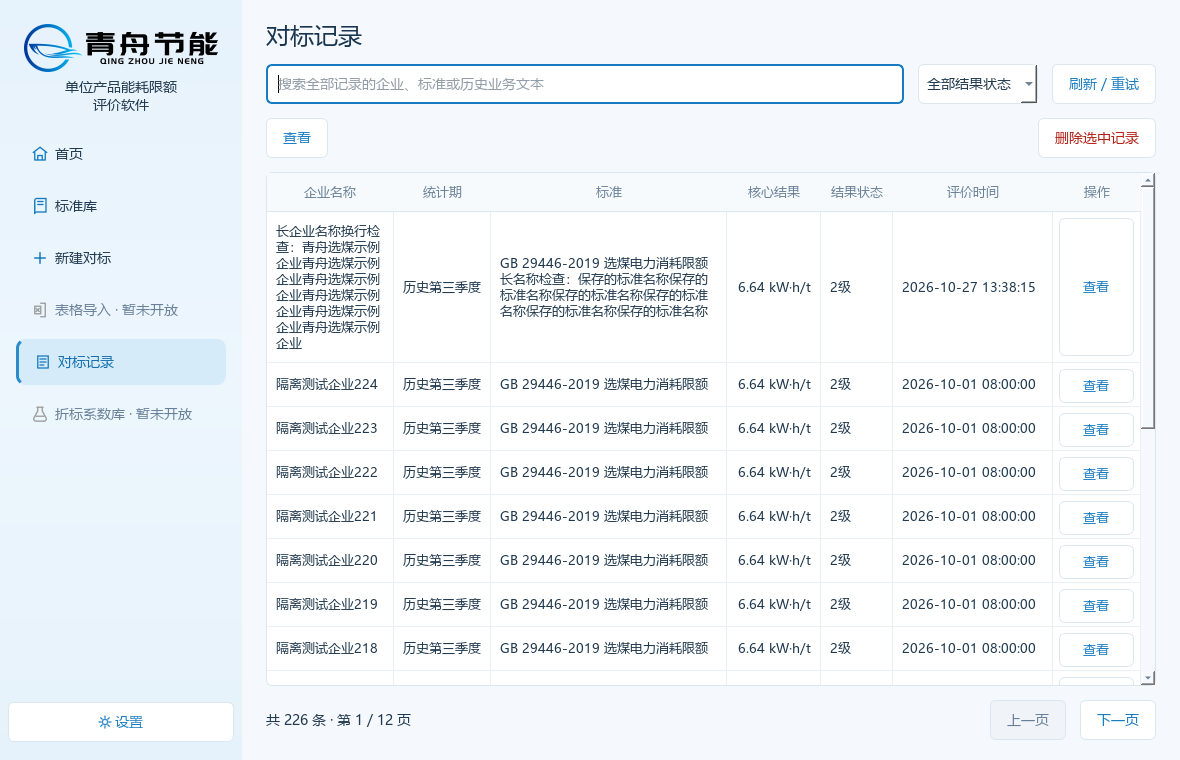
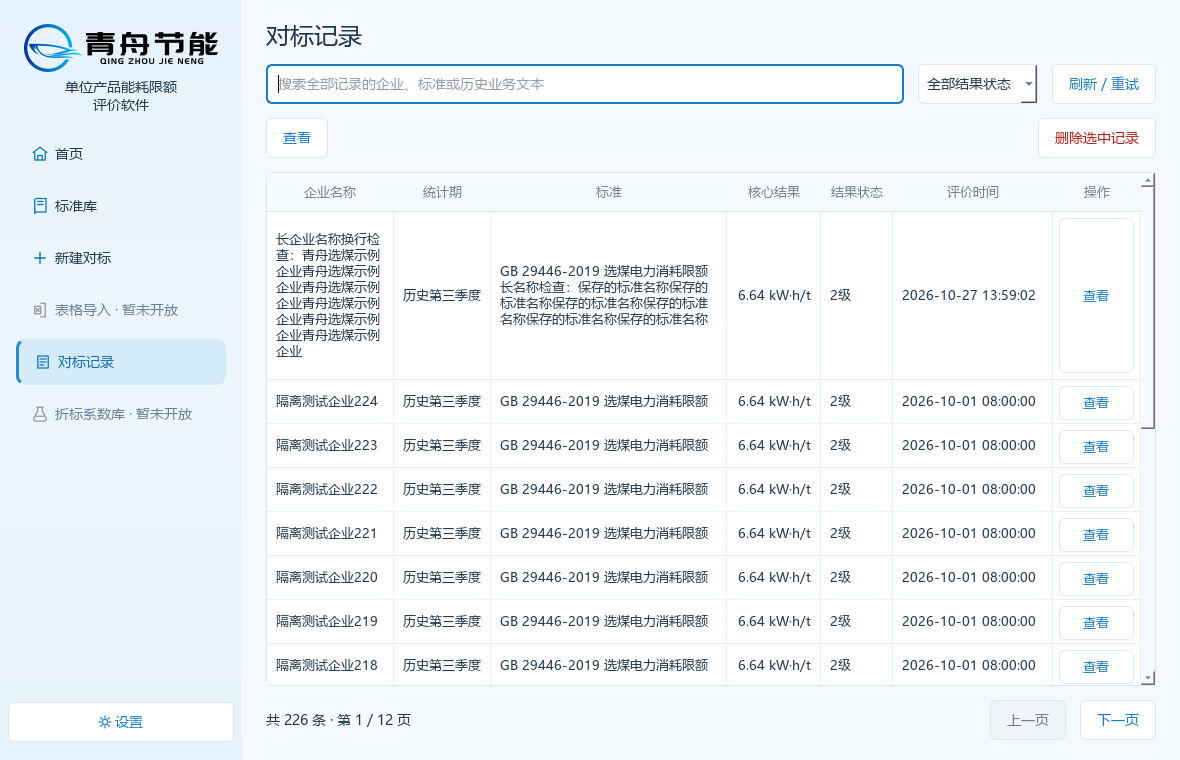
docs(ui): 补齐长名称渲染回归与三尺寸截图

diff --git a/docs/ui/UI_IMPLEMENTATION_STATUS.md b/docs/ui/UI_IMPLEMENTATION_STATUS.md
@@ -1,6 +1,6 @@
 # UI 实施状态与第二阶段交接
 
-日期：2026-10-27。状态：**PR #33 第二轮用户反馈已作本地实现与一次最终完整回归；证据归档完成，等待设计会话独立复验，暂不推送。** 当前结论及未收口项见第 11 节；此前章节为历史证据。
+日期：2026-10-27。状态：**PR #33 第二轮主体已过完整回归；长文本后续小修复已过定向验证，等待设计会话独立复验，暂不推送。** 当前结论及未收口项见第 11 节；此前章节为历史证据。
 
 ## 1 分支、基线与平台 / Contract 预检查
 
@@ -304,7 +304,7 @@ git diff --check
 | 设置卡片 | 移除标题画在边线上的 QGroupBox，改为卡片内独立标题与内容布局；长路径可选中复制并换行，高级展开仍可滚动。备份/恢复及诊断信号和保护不变 |
 | 单选标记 | 明确提供选中/未选中/禁用 SVG 指示器、焦点边框；文字点击及键盘正确互斥并同步真实煤种。离屏像素检查与原生截图均看见圆环/圆点；原生实测炼焦煤→动力煤→炼焦煤 |
 
-**仍需设计复验的长文本细节：** `records-long-1256.png` 中特别长的企业名已多行增高，但末行仍出现省略号；完整原文保留在工具提示，状态/日期/操作完整。1180 同类样例未出现该末行省略。本轮不宣称任意长度名称均完整无省略；这个细节作为未收口项明确交设计会话，未在证据收尾阶段改动已跑全量的实现。
+**此前长文本未收口项（已按 11.1 修复）：** 原1256样例的超长企业名末行省略曾如实交设计复验；设计会话要求小范围收口后，三张对应截图已由后续实现重现，见 `long-text-capture-environment.json`。主体完整回归仍保留原实现1425241的证据身份，不把它计为后续小修复的全套。
 
 **测试：** Python 3.13.17 / PySide6 6.10.1。本轮相关组 78 passed（`work/pr33-r2-affected.log`，紧凑字号最终调整之前）；最终紧凑表格与记录组 22 passed（`work/pr33-r2-compact2.log`）。新增第二轮 13 个测试实例，含四种窗口尺寸、普通行单行度量、上下文保留、聚焦/未聚焦真实滚轮和页面滚动、键盘/弹层鼠标选择、卡片标题位置、官方请求 true/false/异常及复制、单选真实点击/键盘与蓝色像素、冻结 DLL/PATH 正常及异常时恢复。各组重叠不相加。
 
@@ -328,3 +328,20 @@ git diff --check
[1 lines of base64/hex data omitted]
 
 本轮仅交本地实现、完整回归与真实证据供设计会话独立复验；长名称细节及浏览器视觉边界如上，不写用户最终验收通过。
+
+
+### 11.1 长名称末行小范围收口
+
+设计会话已独立审查1425241，重跑第二轮、记录、第一阶段UI、Word四组 **51 passed in 23.53s**，并查看主体完整回归1165/66skip/2warning与代表图；该复验不代替用户验收。本次仅处理其确认的1256长名称末行问题。
+
+后续实现 **`e53ebb5847ca0bdc758375cbe3c8ca25b0ff519a`**：只改 `record_table.py` 的长文本测量，读取实际delegate字体及style文字区域，再给换行内容一行安全余量；没有全局增高普通行或降低字号，普通行仍44px、表格仍13px。未改数值、映射、支持范围、Schema或浏览器链路。平台/Contract预检查沿用本节，Frozen lock不变，无新增问题或中央修改需要。
+
+新增同一截图长名称的1180/1256/1440真实delegate渲染回归：保留默认垂直居中、内边距和省略行为，将实际行高绘制的字形与充分高完整绘制去除空白定位后逐像素比较，而非拿测量公式与自身比较。修复前准确复现 **1256失败、1180/1440通过**（`work/pr33-long-render-before.log`）；修复后两个指定测试模块合计 **25 passed in 29.95s**（`work/pr33-long-final-targeted.log`），同时断言普通行44px、字号13px、状态操作完整。
+
+```powershell
+& .\work\venv313\Scripts\python.exe -m pytest tests/test_ui_pr33_round2.py tests/test_record_query_ui.py -ra --tb=short -p no:cacheprovider --basetemp work/pr33-long-final-targeted
+```
+
+仅更新 `records-long-1180.png`、`records-long-1256.png`，新增 `records-long-1440.png`，三图已目视核对同一长名称完整、无末行省略。`long-text-capture-environment.json` 记录干净精确源码e53ebb5与真实Qt离屏环境；主体 `capture-environment.json` 仍只负责原1425241截图，已把两张被替代长图转交后续清单，不混淆来源。其他原生图片和流程没有重做。
+
+按明确的小修复范围不无条件重跑本地全套；**1165 passed / 66 skipped / 2 warnings 是修复前主体实现1425241的完整回归**，不是e53ebb5的全套。设计复验确认并允许更新同一PR后，再由新精确head的现有CI执行全套。当前不推送、不构建包、不再尝试受限浏览器视觉操作；页面呈现仍未核验。后续仅文档与截图提交，交设计会话确认。
